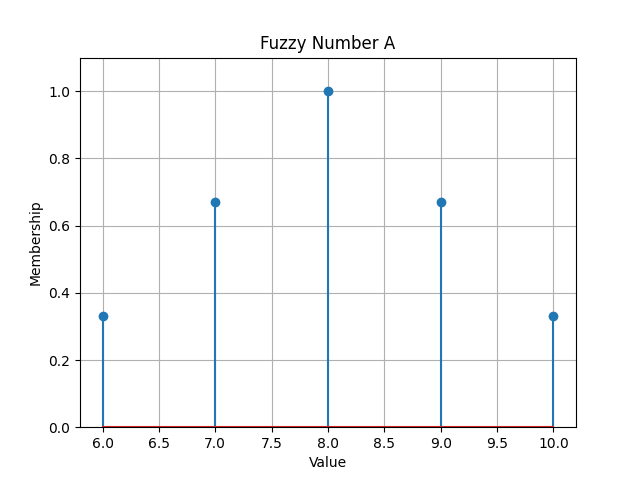
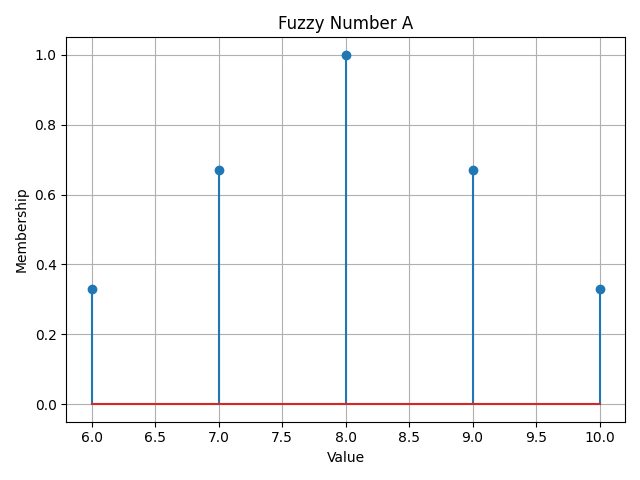
results and repo refactoring

diff --git a/fuzzy/3_2.py b/fuzzy/3_2.py
@@ -1,90 +1,54 @@
-import torch
-import matplotlib.pyplot as plt
+from fuzzy.operations import plot_fuzzy, fuzzy_div, fuzzy_sub, fuzzy_mult
+
+# Membership functions
+def mu_A(x):
+    if x <= 8: return 0
+    if 8 < x < 18: return max(0, (1/10) * x - 8/10)
+    if 18 <= x <= 32: return max(0, -(1/14) * x + 32/14)
+    return 0
+
+def mu_B(x):
+    if x <= -3: return 0
+    if -3 < x <= 6: return max(0, (1/9) * x - 1/3)
+    if 6 < x <= 24: return max(0, -(1/18) * x + 3/4)
+    return 0
 
 # Domain definition
-x_A = torch.linspace(0, 40, 1000)
-x_B = torch.linspace(-10, 30, 1000)
+def domain(min_val, max_val, step):
+    return [min_val + i*step for i in range(int((max_val - min_val)/step) + 1)]
 
-# Membership function for A
-def mu_A(x):
-    return torch.where(
-        x <= 8, 0.0,
-        torch.where(
-            x < 18, 0.1 * x - 0.8,
-            torch.where(x <= 32, -1/14 * x + 32/14, 0.0)
-        )
-    )
+x_A = domain(7, 33, 0.05)
+x_B = domain(-4, 25, 0.05)
 
-# Membership function for B
-def mu_B(x):
-    return torch.where(
-        x <= -3, 0.0,
-        torch.where(
-            x <= 6, 1/9 * x - 1/3,
-            torch.where(x <= 24, -1/18 * x + 4/3, 0.0)
-        )
-    )
+# Fuzzy numbers initialization
+A = {x: mu_A(x) for x in x_A}
+B = {x: mu_B(x) for x in x_B}
 
-def fuzzy_operation(xA, muA, xB, muB, op="add"):
-    result = {}
-    for i in range(len(xA)):
-        for j in range(len(xB)):
-            a = xA[i].item()
-            b = xB[j].item()
-            μ = min(muA[i].item(), muB[j].item())
-            if op == "add":
-                z = a + b
-            elif op == "sub":
-                z = a - b
-            elif op == "mul":
-                z = a * b
-            z = round(z, 2)
-            if z in result:
-                result[z] = max(result[z], μ)
-            else:
-                result[z] = μ
-    z_vals = sorted(result.keys())
-    mu_vals = [result[z] for z in z_vals]
-    return torch.tensor(z_vals), torch.tensor(mu_vals)
+# (i) Plot μ_A and μ_B
+plot_fuzzy(A, "Fuzzy Number A", '../results/3_2_a.png')
+plot_fuzzy(B, "Fuzzy Number B", '../results/3_2_b.png')
 
-muA_vals = mu_A(x_A)
-muB_vals = mu_B(x_B)
+# (ii) Fuzzy multiplication using extension principle (max-min convolution)
+def filter_fuzzy(fuzzy_dict):
+    items = list(fuzzy_dict.items())
 
-# Plot μ_A and μ_B
-plt.figure(figsize=(10, 4))
-plt.subplot(1, 2, 1)
-plt.plot(x_A, muA_vals)
-plt.title("Membership Function μ_A(x)")
-plt.grid(True)
+    # Find first and last index where μ ≠ 0
+    start = next((i for i, (_, mu) in enumerate(items) if mu > 0), None)
+    end = next((i for i, (_, mu) in reversed(list(enumerate(items))) if mu > 0), None)
 
-plt.subplot(1, 2, 2)
-plt.plot(x_B, muB_vals)
-plt.title("Membership Function μ_B(x)")
-plt.grid(True)
-plt.tight_layout()
-plt.show()
+    if start is None or end is None: return {}
 
-C_x, C_mu = fuzzy_operation(x_A, muA_vals, x_B, muB_vals, op="mul")
-D_x, D_mu = fuzzy_operation(x_A, muA_vals, x_B, muB_vals, op="sub")
-E_x, E_mu = fuzzy_operation(x_A, muA_vals, x_B, muB_vals, op="add")
+    # Keep only entries between first and last non-zero μ
+    filtered_items = items[start:end + 1]
+    return dict(filtered_items)
 
-# Plot all results
-plt.figure(figsize=(12, 4))
-plt.subplot(1, 3, 1)
-plt.plot(C_x, C_mu)
-plt.title("Fuzzy Product: $C = A \\cdot B$")
-plt.grid(True)
+C = filter_fuzzy(fuzzy_mult(A, B))
+plot_fuzzy(C, title="Fuzzy Product C = A * B", filename='../results/3_2_mult.png')
 
-plt.subplot(1, 3, 2)
-plt.plot(D_x, D_mu)
-plt.title("Fuzzy Difference: $D = A - B$")
-plt.grid(True)
+# (iii) Fuzzy subtraction and division using similar principle
+D = filter_fuzzy(fuzzy_sub(A, B))
+plot_fuzzy(D, title="Fuzzy Difference D = A - B", filename='../results/3_2_sub.png')
+E = filter_fuzzy(fuzzy_mult(A, B))
+plot_fuzzy(fuzzy_div(A, B), title="Fuzzy Division E = A / B", filename='../results/3_2_div.png')
 
-plt.subplot(1, 3, 3)
-plt.plot(E_x, E_mu)
-plt.title("Fuzzy Sum: $E = A + B$")
-plt.grid(True)
-
-plt.tight_layout()
-plt.show()
 

diff --git a/fuzzy/3_1.py b/fuzzy/3_1.py
@@ -1,69 +1,16 @@
-import torch
-import matplotlib.pyplot as plt
+from fuzzy.operations import plot_fuzzy, fuzzy_mult, fuzzy_div, fuzzy_sub
 
 # Define fuzzy numbers A and B as dictionaries
-A_dict = {6: 0.33, 7: 0.67, 8: 1.00, 9: 0.67, 10: 0.33}
-B_dict = {1: 0.33, 2: 0.67, 3: 1.00, 4: 0.67, 5: 0.33}
-
-# Convert to PyTorch tensors (x: support, μ: membership)
-def fuzzy_to_tensor(fuzzy_dict):
-    x = torch.tensor(list(fuzzy_dict.keys()), dtype=torch.float32)
-    mu = torch.tensor(list(fuzzy_dict.values()), dtype=torch.float32)
-    return x, mu
-
-A_x, A_mu = fuzzy_to_tensor(A_dict)
-B_x, B_mu = fuzzy_to_tensor(B_dict)
+A = {6: 0.33, 7: 0.67, 8: 1.00, 9: 0.67, 10: 0.33}
+B = {1: 0.33, 2: 0.67, 3: 1.00, 4: 0.67, 5: 0.33}
 
 # (i) Plot A and B
-def plot_fuzzy(x, mu, title, filename):
-    plt.stem(x.numpy(), mu.numpy())
-    plt.title(title)
-    plt.xlabel("Value")
-    plt.ylabel("Membership")
-    plt.ylim(0, 1.1)
-    plt.grid(True)
-    plt.savefig(filename)
-    plt.close()
-
-plot_fuzzy(A_x, A_mu, "Fuzzy Number A", '../results/3_1_a.png')
-plot_fuzzy(B_x, B_mu, "Fuzzy Number B", '../results/3_1_b.png')
+plot_fuzzy(A, "Fuzzy Number A", '../results/3_1_a.png')
+plot_fuzzy(B, "Fuzzy Number B", '../results/3_1_b.png')
 
 # (ii) Fuzzy multiplication using extension principle (max-min convolution)
-def fuzzy_multiply(x1, mu1, x2, mu2):
-    result_dict = {}
-    for i in range(len(x1)):
-        for j in range(len(x2)):
-            z = x1[i] * x2[j]
-            mu = torch.minimum(mu1[i], mu2[j])
-            z_rounded = round(z.item(), 2)  # Round for float stability
-            # Use max-min aggregation
-            if z_rounded in result_dict:
-                result_dict[z_rounded] = max(result_dict[z_rounded], mu.item())
-            else:
-                result_dict[z_rounded] = mu.item()
-    z_sorted = sorted(result_dict.keys())
-    mu_sorted = [result_dict[z] for z in z_sorted]
-    return torch.tensor(z_sorted), torch.tensor(mu_sorted)
+plot_fuzzy(fuzzy_mult(A, B), title="Fuzzy Product C = A * B", filename='../results/3_1_mult.png')
 
-C_x, C_mu = fuzzy_multiply(A_x, A_mu, B_x, B_mu)
-plot_fuzzy(C_x, C_mu, "Fuzzy Product C = A * B", '../results/3_1_mult.png')
-
-# (iii) Fuzzy subtraction and addition using similar principle
-def fuzzy_sum(x1, mu1, x2, mu2):
-    result_dict = {}
-    for i in range(len(x1)):
-        for j in range(len(x2)):
-            z = x1[i] + x2[j]
-
-            mu = min(mu1[i], mu2[j])
-            z = round(z.item(), 2)
-            result_dict[z] = max(result_dict.get(z, 0), mu)
-    z_vals = torch.tensor(sorted(result_dict.keys()))
-    mu_vals = torch.tensor([result_dict[z.item()] for z in z_vals])
-    return z_vals, mu_vals
-
-D_x, D_mu = fuzzy_sum(A_x, A_mu, -B_x, B_mu)
-plot_fuzzy(D_x, D_mu, "Fuzzy Difference D = A - B", '../results/3_1_sub.png')
-
-E_x, E_mu = fuzzy_sum(A_x, A_mu, B_x, B_mu)
-plot_fuzzy(E_x, E_mu, "Fuzzy Sum E = A + B", '../results/3_1_sum.png')
+# (iii) Fuzzy subtraction and division using similar principle
+plot_fuzzy(fuzzy_sub(A, B), title="Fuzzy Difference D = A - B", filename='../results/3_1_sub.png')
+plot_fuzzy(fuzzy_div(A, B), title="Fuzzy Division E = A / B", filename='../results/3_1_div.png')

diff --git a/fuzzy/operations.py b/fuzzy/operations.py
@@ -1,0 +1,68 @@
+import matplotlib.pyplot as plt
+
+def unzip_fuzzy(fuzzy_number):
+    x = list(fuzzy_number.keys())
+    mu = list(fuzzy_number.values())
+    return x, mu
+
+def fuzzy_sum(a, b):
+    result = {}
+    for a_val, a_mu in a.items():
+        for b_val, b_mu in b.items():
+            sum_val = a_val + b_val
+            mu = min(a_mu, b_mu)
+            if sum_val in result:
+                result[sum_val] = max(result[sum_val], mu)
+            else:
+                result[sum_val] = mu
+    return dict(sorted(result.items()))
+
+def fuzzy_sub(A, B):
+    result = {}
+    for a_val, a_mu in A.items():
+        for b_val, b_mu in B.items():
+            sub_val = a_val - b_val
+            mu = min(a_mu, b_mu)
+            if sub_val in result:
+                result[sub_val] = max(result[sub_val], mu)
+            else:
+                result[sub_val] = mu
+    return dict(sorted(result.items()))
+
+def fuzzy_mult(A, B):
+    result = {}
+    for a_val, a_mu in A.items():
+        for b_val, b_mu in B.items():
+            mult_val = a_val * b_val
+            mu = min(a_mu, b_mu)
+            if mult_val in result:
+                result[mult_val] = max(result[mult_val], mu)
+            else:
+                result[mult_val] = mu
+    return dict(sorted(result.items()))
+
+def fuzzy_div(A, B):
+    result = {}
+    for a_val, a_mu in A.items():
+        for b_val, b_mu in B.items():
+            if b_val != 0:
+                div_val = a_val / b_val
+                mu = min(a_mu, b_mu)
+                if div_val in result:
+                    result[div_val] = max(result[div_val], mu)
+                else:
+                    result[div_val] = mu
+    return dict(sorted(result.items()))
+
+def plot_fuzzy(fuzzy_number: dict, title: str, filename: str):
+    x, mu = unzip_fuzzy(fuzzy_number)
+
+    if len(x) < 100: plt.stem(x, mu)
+    else: plt.plot(x, mu)
+    plt.title(title)
+    plt.xlabel("Value")
+    plt.ylabel("Membership")
+    plt.grid(True)
+    plt.tight_layout()
+    plt.savefig(filename)
+    plt.close()

diff --git a/genetic/9_2.py b/genetic/9_2.py
@@ -1,5 +1,5 @@
-from genetic_algorithm import GeneticAlgorithm, binary_fitness, best
-from plot_functions import generation_progress, multi_generation_progress
+from abstraction import GeneticAlgorithm, binary_fitness, best
+from plotting import generation_progress, multi_generation_progress
 
 def main():
     genetic = GeneticAlgorithm(fitness=binary_fitness, target=best)

diff --git a/genetic/9_1.py b/genetic/9_1.py
@@ -1,6 +1,6 @@
 import numpy as np
-from genetic_algorithm import GeneticAlgorithm, linear_fitness
-from plot_functions import p_delta_histograms, p_delta_line
+from abstraction import GeneticAlgorithm, linear_fitness
+from plotting import p_delta_histograms, p_delta_line
 def main():
     runs, p_deltas = 20, [0.1*i for i in range(11)]
     P_mu, n, l = 0.001, 100, 20

diff --git a/genetic/9_3.py b/genetic/9_3.py
@@ -1,5 +1,5 @@
-from genetic.genetic_algorithm import GeneticAlgorithm, linear_fitness, binary_fitness, schema
-from genetic.plot_functions import schema_count
+from genetic.abstraction import GeneticAlgorithm, linear_fitness, binary_fitness, schema
+from genetic.plotting import schema_count
 
 def main():
     schemas = [
